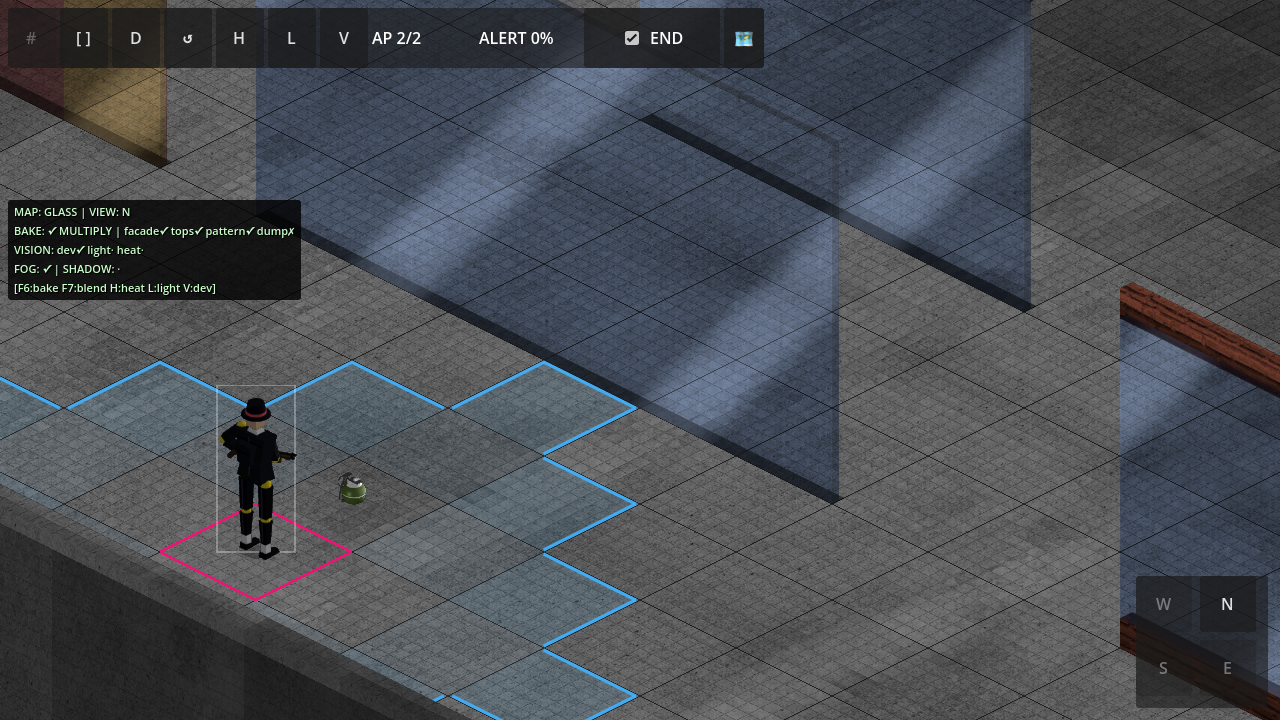
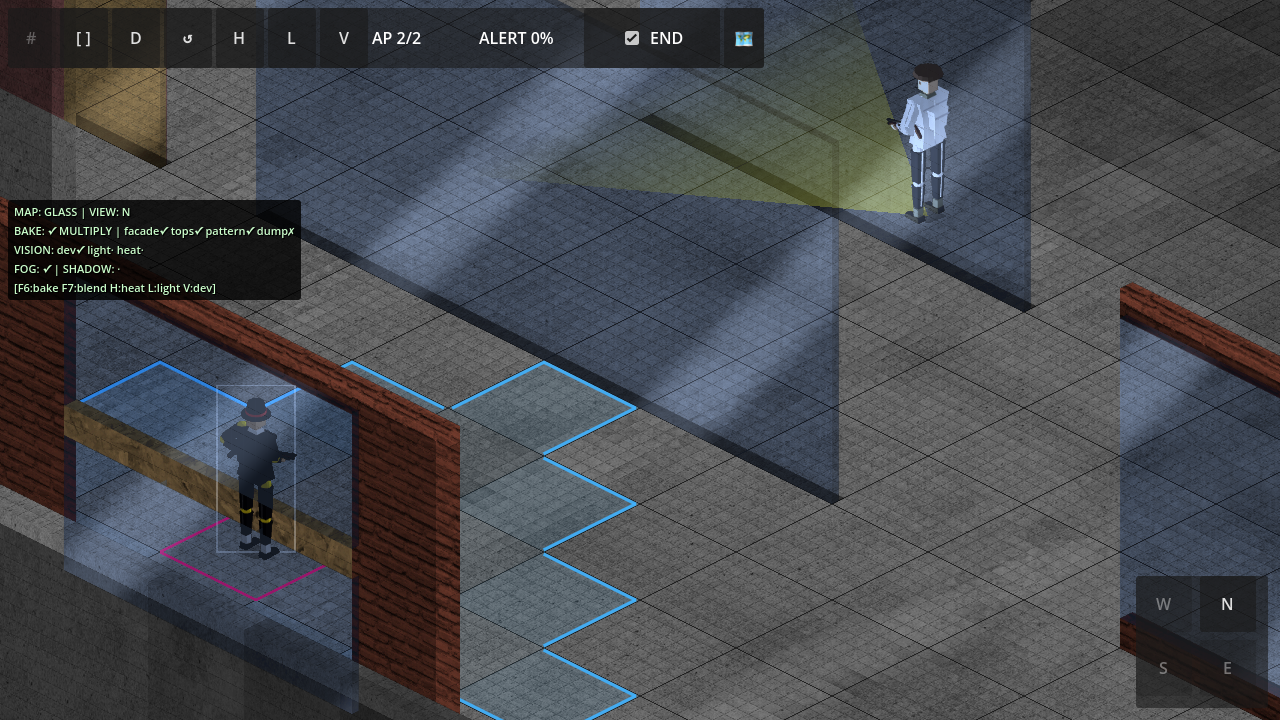
[GLASS-OLIVE] Glass — the olive cast is a glass atom stamped on the OPAQUE layer
Root, and it is not what 18.14b said. `_set_voxel_cell()` has two modes: with
`apply = true` it PLACES the cell and its glass branch is careful (glass to
`_glass_layers`, opaque cell erased); with `apply = false` it only RESOLVES —
returns a source id and lets the caller place it — and that branch handed back
the glass pane atom with nothing in the dict to say which layer it belongs to.
Every consumer assumed "opaque".

`DetonationEntryWriter` writes the dented/cracked waves to
`voxel_renderer.get_layer(level)`. So every CRACKED glass voxel had its own pane
atom stamped on the OPAQUE layer underneath the still-intact pane. A glass atom's
RGB is `(dim, dim, tint_index / 255)` — an instruction to glass_pane.gdshader,
not a colour — so voxel_face_shading.gdshader rendered it as flat YELLOW, and the
real pane above MULTIPLIED PANE_TINT[0]'s blue over that yellow: OLIVE. A rotation
cleared it because the rebuild re-runs `_set_voxel_cell(apply = true)`.

The audit's unexplained `(101,101,2)` was the last piece: blue is not a tint index,
it is FACE-READ-03's residue snap forcing the SW face onto its own class mod 3, so
blue 0 becomes 2. And "no single voxel_layer_N removes it" was never mysterious —
the panes span 24 levels (80..103).

FIX — one authority, asked rather than re-derived. The resolve-only return gains
`"glass_sublayer": true`; `_resolve_damaged_tile()` returns {} (a real answer:
"no opaque tile") on all three live-resolve branches. Only the TILE WRITE is
[…]

diff --git a/PROMPTS/AUDITS/GLASS_OLIVE_CAST_2026-09-06.md b/PROMPTS/AUDITS/GLASS_OLIVE_CAST_2026-09-06.md
@@ -1,7 +1,10 @@
 # AUDIT — the olive/yellow cast on crazed glass panes near a blast
 
-**Status:** 🟡 OPEN — reproduced, isolated to a class of node, root not yet named.
-**Opened:** 2026-09-06. Director asked to stop and write the state down; continue next session.
+**Status:** ✅ **CLOSED 2026-09-06** — root named, fixed, measured red-to-green, pinned
+by a selftest with teeth. §7 below is the answer; §1–§5 are kept verbatim as the
+hunt's record (§5's three leads were all wrong, and it is worth knowing why).
+**Opened:** 2026-09-06. Director asked to stop and write the state down; continued
+the same day.
 **Supersedes** the diagnosis in `GLASS_MASTER_PLAN.md` §18.14b (commit `03444a61`),
 which this session's deeper probe did **not** confirm — see "What §18.14b got wrong".
 
@@ -29,8 +32,10 @@ INFILTRAITOR_FREEZE_GUARD_TURN=1 \
 /Applications/Godot.app/Contents/MacOS/Godot --path .
 ```
 
-- `Screenshots/history/glass_blast_demo_after.png` — view N, 240 frames post‑blast:
-  the two crazed panes are vividly olive‑green.
+- `Screenshots/history/glass_olive_audit_1_normal.png` — view N, 240 frames
+  post‑blast: the two crazed panes are vividly olive‑green. (⚠ `glass_blast_demo_after.png`
+  is REGENERATED by that command and now shows the FIXED picture — do not cite it
+  for the defect. `glass_olive_fix_before.png` is the last olive one.)
 - `Screenshots/history/glass_blast_demo_flip_E.png` — after `_set_perspective("E")`:
   the panes are neutral. The cast is gone.
 
@@ -145,3 +150,106 @@ behind it), but the "warm blast content / crater in the backbuffer" story is not
 5. `_5_after_rotation` — view E: the cast is gone.
 6. `_6_floor_top_hidden` — `voxel_layer_79` hidden (biggest single sweep drop);
    the yellow slab survives it.
+
+
+---
+
+## 7. THE ANSWER (2026-09-06, same day)
+
+### 7.1 What it was
+
+**`DetonationPlanBuilder._resolve_damaged_tile()` stamped GLASS ATOMS onto the
+OPAQUE voxel layer.**
+
+`VoxelRenderer._set_voxel_cell()` has two modes. With `apply = true` it PLACES the
+cell and its glass branch is careful: glass goes to `_glass_layers[level]` and the
+opaque cell is explicitly erased. With `apply = false` it only RESOLVES — it hands
+back a source id and the caller places it — and that branch returned the glass pane
+atom's id with **nothing in the returned dict to say which layer it belongs to**.
+Every consumer of that seam assumed "the opaque layer", because the dict gave it no
+way to ask.
+
+`DetonationEntryWriter.apply()` writes the `dented` and `cracked` waves to
+`voxel_renderer.get_layer(level)` — the opaque layer. So the chain was:
+
+1. the blast crazes a glass voxel → `delta.state_of(voxel) == CRACKED`;
+2. `_resolve_damaged_tile()` misses the baked registry (glass has no damage
+   variants — D22/G-D26, and `damage_variant_material()` returns the BASE glass name
+   for every state precisely so a crazed pane does not change material);
+3. it falls to the live resolve, `_set_voxel_cell(…, apply = false)`, which returns
+   the pane's own atom id;
+4. `DetonationEntryWriter` stamps that id on the **opaque** layer, underneath the
+   still-intact pane.
+
+A glass atom's RGB is `(dim, dim, tint_index / 255)` — an instruction to
+`glass_pane.gdshader`, which reads R as the per-plane dim and B as the family tint
+index. `voxel_face_shading.gdshader` reads none of that and renders the texture
+literally: **flat yellow**, R == G, B ≈ 0. The real pane then MULTIPLIED
+`PANE_TINT[0]` (`0.47, 0.63, 0.90`, blue) over it — **olive**.
+
+### 7.2 Every observation in §3, explained
+
+| observation | why |
+|---|---|
+| pure yellow `(164,164,5)` behind the pane | the glass atom's own RGB, `(1, 1, 0)` for plain glass, darkened by bucket × soot |
+| exactly `(101,101,2)` / `(103,103,1)` with the craze hidden | `voxel_face_shading`'s **FACE-READ-03 residue snap** forces each face onto its own class mod 3 of the 8-bit value: blue 0 → **2** on the SW face, **1** on SE. Both panes are `_SW`. The blue channel was never a tint index — it was the residue correction |
+| the pane MULTIPLY-tints it olive | correct shader on wrong input, exactly as §3 concluded |
+| the `BackBufferCopy` changes nothing | the yellow is a real tile in the scene, not framebuffer content |
+| stable for 4 s, not a fading ramp | a placed cell, not a transient effect |
+| **no single `voxel_layer_N` removes it** | the panes span **24 levels (80..103)**; hiding one layer removes one row of a 24-row wall |
+| only hiding the whole `_voxel_renderer` kills it | all 24 of those layers are its children |
+| a rotation clears it | the rebuild re-runs `_set_voxel_cell(apply = true)`, whose glass branch calls `layer.erase_cell()` |
+| the opaque cell probed EMPTY at `(88,87)` L80 | L80 held 24 strays out of 720; that one cell was not among them |
+
+### 7.3 Why §5's three leads were all wrong
+
+They were all hypotheses about a **colour being computed**. The defect was a
+**correct texture on the wrong layer** — no colour was ever computed wrongly. The
+light-alt path is greyscale as documented; no variant tint index was mis-written;
+no mask `ImageTexture` was drawn raw. Worth keeping: the session that wrote them had
+already measured everything needed to find this, and read `(101,101,2)` as a colour
+to explain rather than as a **signature to match against something the codebase
+prints**. `_build_glass_pane_atom()` writes `Color(rgb, rgb, tint_b, a)` — literally
+that signature, in the file.
+
+### 7.4 The fix
+
+One authority, asked rather than re-derived:
+
+- `_set_voxel_cell()`'s resolve-only glass return gained **`"glass_sublayer": true`**
+  — the routing rule stays in the one place that owns it;
+- `_resolve_damaged_tile()` returns **`{}`** on all three of its live-resolve
+  branches (Slice, JunctionColumn, Slab) when the resolve is so marked. Empty is a
+  real answer here — *"this voxel has no opaque tile"* — not a miss;
+- the plan builder skips only the **tile entry**. The damage is still recorded
+  (`touched_voxels` is the commit's persistence seam and VL-PERSIST replays a CRACKED
+  pane through a rotation from it), and the craze web — a sprite over the pane — is
+  the entire visual for a cracked pane exactly as G-D27 ratified.
+
+Re-deriving the rule at the call site from `GlassMaterials.is_glass()` was rejected:
+it would also have to re-derive `flat_baked` and `_glass_atom_source`, which is three
+copies of one decision — the [[two-authorities-remove-one]] trap this track has paid
+for before.
+
+### 7.5 Evidence
+
+Red and green from the **same binary and the same map** (GLASS, grenade gu 13,13),
+the only difference being the three guards:
+
+| | red | green |
+|---|---|---|
+| glass atoms on OPAQUE layers | **720** (levels 80..103) | **0** |
+| olive pixels in the capture | **92 779** | **1 754** |
+| the crazed pane's pixel | `(106,122,35)` | `(64,74,91)` — this audit's own recorded value for normal glass |
+
+The 1 754 residual are the dev HUD's green text `(204,255,204)`, which the crude
+`g > r` olive mask catches; no glass is involved.
+
+`Screenshots/history/glass_olive_fix_before.png` / `glass_olive_fix_after.png`.
+
+**Pinned:** `glass_transparency_selftest` **[12]** (42 assertions, was 38). Asserted
+as an IDENTITY on both sides — the marker must BE true for glass and the plan-level
+resolve must BE empty — with a concrete control that must still produce a real opaque
+tile, because "not the wrong id" would have passed for the whole life of this bug.
+**Teeth checked:** removing the three guards fails it with `source_id 18`, the same
+atom id §3's cell probe recorded on the glass sublayer.

diff --git a/PROMPTS/PLANNING/GLASS_MASTER_PLAN.md b/PROMPTS/PLANNING/GLASS_MASTER_PLAN.md
@@ -4117,22 +4117,55 @@ fringe barely, which is the brief. Logged as `[GLASS-DUST]`.
   stays available if a real map shows it is ugly.
 - The reported shard-cell count drift across a flip (340 → 389) still belongs to
   CRACK-04's `_respawn_base_openings()`, not here.
-- 🟡 **AN OLIVE/YELLOW CAST ON CRAZED PANES NEAR A GRENADE, that vanishes on a
-  perspective rotation** — Director-reported 2026-09-06, PRE-EXISTING (he has seen
-  it "várias vezes"), NOT from this session's G4-4 work.
-  **→ Full audit: [`PROMPTS/AUDITS/GLASS_OLIVE_CAST_2026-09-06.md`](../AUDITS/GLASS_OLIVE_CAST_2026-09-06.md)**
-  (reproduced, isolated to *a yellow pane-shaped slab inside the `_voxel_renderer`
-  subtree, seen through the erased CRACKED-pane gap and MULTIPLY-tinted olive by the
-  plain-glass blue tint*; root not yet named; 6 committed evidence captures).
+- ✅ **THE OLIVE/YELLOW CAST ON CRAZED PANES NEAR A GRENADE — FIXED 2026-09-06.**
+  Director-reported, PRE-EXISTING (he had seen it "várias vezes"), never from
+  G4-4. **→ Audit, now closed:
+  [`PROMPTS/AUDITS/GLASS_OLIVE_CAST_2026-09-06.md`](../AUDITS/GLASS_OLIVE_CAST_2026-09-06.md).**
+
+  **Root: `DetonationPlanBuilder._resolve_damaged_tile()` stamped GLASS ATOMS onto
+  the OPAQUE voxel layer.** `_set_voxel_cell(apply = false)` is a resolve-only seam
+  — it returns a source id and lets the caller place it — and its glass branch
+  returned the `_glass_layers` pane atom with nothing in the dict to say so. Every
+  consumer assumed "opaque layer". `DetonationEntryWriter` writes the `dented` /
+  `cracked` waves to `voxel_renderer.get_layer(level)`, so every CRACKED glass voxel
+  got its own pane atom stamped on the opaque layer *underneath the still-intact
+  pane*. A glass atom's RGB is `(dim, dim, tint_index / 255)` — an instruction to
+  `glass_pane.gdshader`, not a colour — so `voxel_face_shading.gdshader` rendered it
+  as **flat yellow**, and the real pane above MULTIPLIED `PANE_TINT[0]`'s blue over
+  that yellow, which is **olive**. A rotation cleared it because the rebuild re-runs
+  `_set_voxel_cell(apply = true)`, whose glass branch erases the opaque cell.
+
+  **Fix — one authority, asked instead of re-derived.** The resolve-only return
+  gained `"glass_sublayer": true`, and `_resolve_damaged_tile()` returns `{}` (a real
+  answer: "this voxel has no opaque tile") on all three of its live-resolve branches.
+  The damage itself is untouched — `touched_voxels` still records it, VL-PERSIST
+  still replays it through a rotation — because for glass the craze web is the whole
+  visual (G-D27) and `damage_variant_material()` already returns the base glass name
+  for every state (D22/G-D26). Re-deriving the rule at the call site from
+  `is_glass()` was rejected: it would also have to re-derive `flat_baked` and
+  `_glass_atom_source`, i.e. three copies of one decision.
+
+  **Measured, red then green, same binary and same map** (GLASS, grenade gu 13,13):
+  stray glass atoms on opaque layers **720 → 0** (levels 80..103 — 24 of them, which
+  is exactly why the previous session's node sweep never killed the yellow by hiding
+  one `voxel_layer_N` at a time); olive pixels in the capture **92 779 → 1 754**, and
+  the residue is the dev HUD's own green text `(204,255,204)`, not glass. The crazed
+  pane now reads `(64,74,91)` — the audit's own recorded value for normal blue-grey
+  glass. `glass_olive_fix_{before,after}.png`.
+
+  **Pinned** as `glass_transparency_selftest` [12] (42 assertions, was 38), asserted
+  as an IDENTITY on both sides: the marker must BE true for glass and the plan-level
+  resolve must BE empty, with a concrete control that must still produce a real
+  opaque tile. Teeth checked — removing the three guards fails it with
+  `source_id 18`, the same atom id the audit's cell probe had recorded on the glass
+  sublayer.
+
   ⚠ **The earlier diagnosis in this section (commit `03444a61`,
-  `INFILTRAITOR_GLASS_WARM_PROBE`) is SUPERSEDED and was wrong** — a deeper probe
-  showed hiding the `BackBufferCopy` changes the pane pixel *not at all*, the cast
-  is stable for 4 s (not a fading warm ramp), the floor crater renders correct dark
-  soot in the same frame, and the crazed panes are plain `glass`. The "warm blast
-  content sampled via `SCREEN_UV` / G-D18b z-bump / crater in the backbuffer" story
-  does not hold. Live leads (light-field warm alt on the wall behind the pane; a
-  variant tint index mis-written to a plain-glass atom's BLUE channel; a craze
-  mask/occupancy `ImageTexture` drawn raw) are in the audit's §5.
+  `INFILTRAITOR_GLASS_WARM_PROBE`) was WRONG and is superseded** — "warm blast
+  content sampled via `SCREEN_UV` / the G-D18b z-bump / the crater in the
+  backbuffer" was a story about a real mechanism that had nothing to do with this
+  cast. It survived because it was never falsified: hiding the `BackBufferCopy`
+  changes the pane pixel *not at all*.
 
 **§18 is now closed** — the shard rain is scattered, biased by the shockwave,
 lands as a band, leaves a readable pile, puffs dust, and a stranded remnant falls

diff --git a/tools/persistent/CODEMAP.md b/tools/persistent/CODEMAP.md
@@ -8,7 +8,7 @@
 > Design rationale and the inviolable rules live in `CLAUDE.md`
 > (hand-authored). This file is the mechanical mirror of the code.
 
-**239 scripts · 86262 lines total** (under `godot/scripts/`)
+**239 scripts · 86398 lines total** (under `godot/scripts/`)
 
 ## Index
 
@@ -878,7 +878,7 @@ extends `ConfirmationDialog` · 64 lines
 
 ### `voxel_renderer.gd`
 
-`class_name VoxelRenderer` · extends `Node2D` · 6821 lines
+`class_name VoxelRenderer` · extends `Node2D` · 6832 lines
 
 `godot/scripts/geometry/voxel_renderer.gd`
 
@@ -2051,7 +2051,7 @@ extends `Node2D` · 43 lines
 
 ### `detonation_plan_builder.gd`
 
-`class_name DetonationPlanBuilder` · 2320 lines
+`class_name DetonationPlanBuilder` · 2355 lines
 
 `godot/scripts/systems/destruction/detonation_plan_builder.gd`
 
@@ -3874,15 +3874,16 @@ extends `SceneTree` · 1328 lines
 
 ### `glass_transparency_selftest.gd`
 
-extends `SceneTree` · 670 lines
+extends `SceneTree` · 760 lines
 
 `godot/scripts/tools/glass_transparency_selftest.gd`
 
-> GLASS_MASTER_PLAN G1 — glass transparency routing selftest. Rodar: python3 tools/persistent/run_selftests.py --only glass_transparency G1 moves glass cells off the opaque `_layers` and onto their own MUL + ADD blend sublayers (glass_shading.gdshaderinc), so the background shows through (G-D1). This suite is the round-trip proof of that routing on the REAL `_set_voxel_cell()` seam every render path funnels through — not a fixture that only exercises the happy branch. GLASS G1 GEOMETRY (2026-08-31) — it also pins the face-culling rule: an interior voxel gets the main-only atom (mask 0), the frontmost column gets main+side (mask 1), the top level main+top (mask 2), and `_glass_face_mask()` returns those bits. 16 atom sources (4 faces × 4 masks), all distinct. What each test catches, worst first: 1. A glass voxel that STILL lands on the opaque layer — the pane would be a solid cube again, G1 undone with no error. 2. A glass sublayer built for a level that has no glass — a wasted layer pair, and a sign the lazy-build guard slipped. 3. A concrete voxel that got routed to the glass sublayers — the one test that proves the `material_name == "glass"` gate is not catching everything. 4. A destroyed glass voxel left drawn on a sublayer — the pane keeps a shard that was shot out. 5. Intact glass dropped from `build_occupancy()` — the light field would stop seeing the pane the moment G1 landed (this suite pins it BLOCKS light exactly as before; whether it should transmit is a later call).
+> GLASS_MASTER_PLAN G1 — glass transparency routing selftest. Rodar: python3 tools/persistent/run_selftests.py --only glass_transparency G1 moves glass cells off the opaque `_layers` and onto their own MUL + ADD blend sublayers (glass_shading.gdshaderinc), so the background shows through (G-D1). This suite is the round-trip proof of that routing on the REAL `_set_voxel_cell()` seam every render path funnels through — not a fixture that only exercises the happy branch. GLASS G1 GEOMETRY (2026-08-31) — it also pins the face-culling rule: an interior voxel gets the main-only atom (mask 0), the frontmost column gets main+side (mask 1), the top level main+top (mask 2), and `_glass_face_mask()` returns those bits. 16 atom sources (4 faces × 4 masks), all distinct. What each test catches, worst first: 1. A glass voxel that STILL lands on the opaque layer — the pane would be a solid cube again, G1 undone with no error. 2. A glass sublayer built for a level that has no glass — a wasted layer pair, and a sign the lazy-build guard slipped. 3. A concrete voxel that got routed to the glass sublayers — the one test that proves the `material_name == "glass"` gate is not catching everything. 4. A destroyed glass voxel left drawn on a sublayer — the pane keeps a shard that was shot out. 5. Intact glass dropped from `build_occupancy()` — the light field would stop seeing the pane the moment G1 landed (this suite pins it BLOCKS light exactly as before; whether it should transmit is a later call). 6. A glass atom handed to a caller that writes the OPAQUE layer — test [12], GLASS-OLIVE. Test [1] proves the APPLY path routes glass correctly; the RESOLVE-ONLY path (`apply = false`) has no layer to be right about, so it hands back the id and the caller decides. DetonationPlanBuilder decided "opaque", and 720 pane atoms were stamped under the panes at every grenade, rendering flat yellow that the real pane MULTIPLIED to olive.
 
 **Constants / tuning**
 - `VoxelRendererClass` = `preload("res://godot/scripts/geometry/voxel_renderer.gd")`
 - `GeometryCoordsClass` = `preload("res://godot/scripts/geometry/geometry_coords.gd")`
+- `DetonationPlanBuilderClass` = `preload("res://godot/scripts/systems/destruction/detonation_plan_builder.gd")`
 
 **Public vars**
 - `var passed: int = 0`
